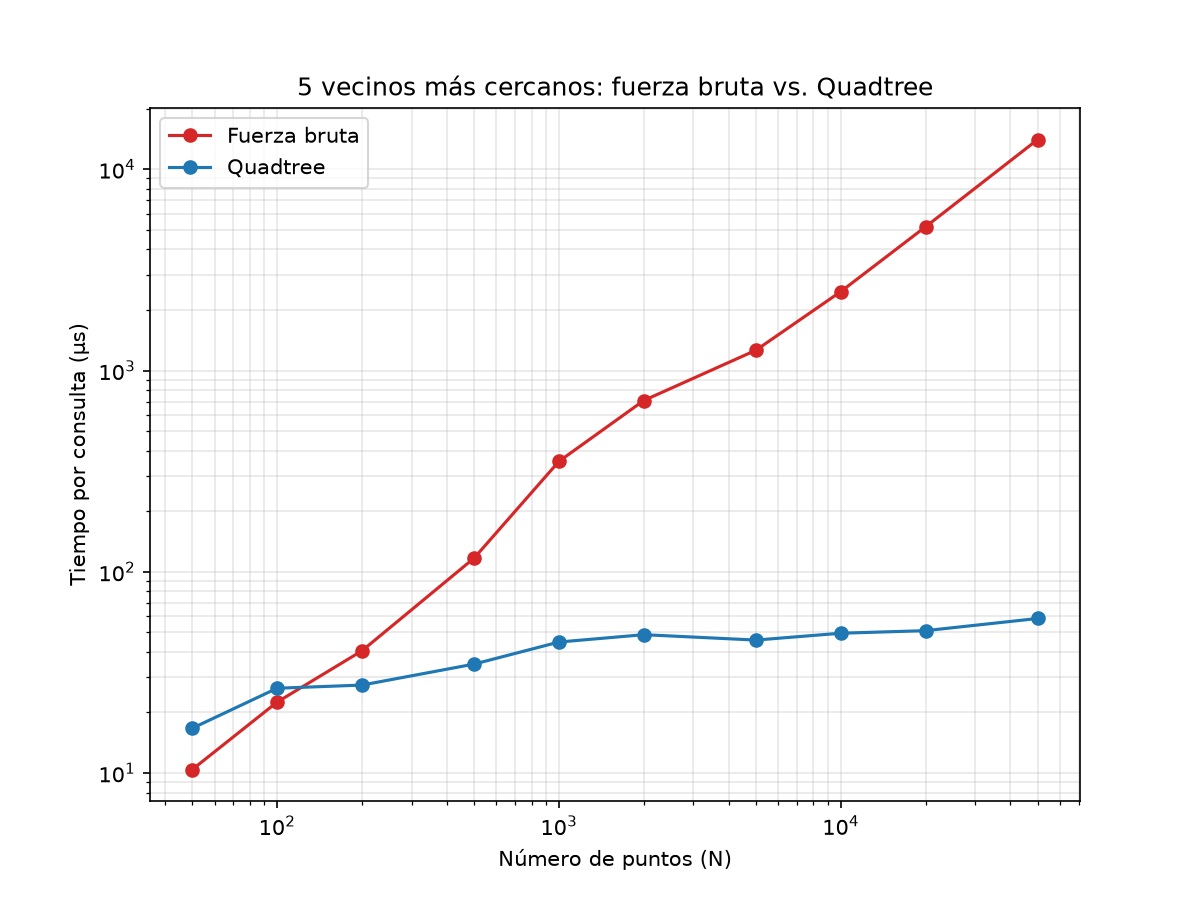
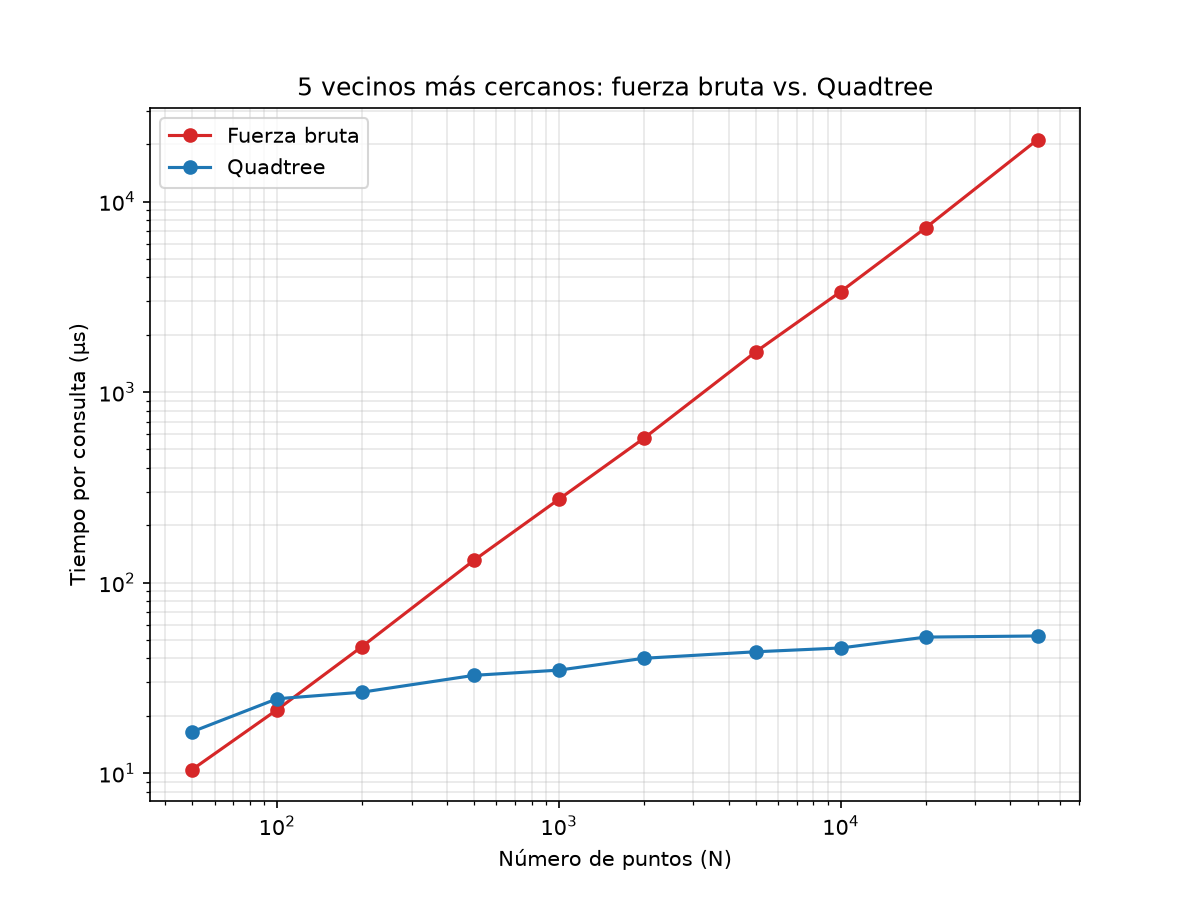
Verificacion de graficas
revise y corri nuevamente el programa

diff --git a/analisis.py b/analisis.py
@@ -17,6 +17,7 @@ os.makedirs(CARPETA, exist_ok=True)
 TAMANOS = [50, 100, 200, 500, 1000, 2000, 5000, 10000, 20000, 50000]
 CONSULTAS = 200       # consultas aleatorias por tamaño (se promedia)
 REPETICIONES = 3      # cada medición se repite y se toma la mejor (reduce el ruido)
+PASADAS = 3           # repeticiones de cada experimento
 RADIO = 500           # metros
 CAPACIDAD = 4         # puntos por nodo antes de subdividir
 LADO = 10000          # la ciudad mide LADO x LADO metros
@@ -149,20 +150,32 @@ def graficar_construccion(resultados, archivo="analisis_construccion.png"):
 # EXPERIMENTO EXTRA: capacidad del nodo
 # ======================================================================
 def experimento_capacidad(n=10000, capacidades=(2, 4, 8, 16, 32)):
+    claves = ["construccion", "radio_arbol", "vecino_arbol"]
+    mejores = []
+    for c in capacidades:
+        mejores.append({"construccion": None, "radio_arbol": None, "vecino_arbol": None})
+
+    # Repito TODO el barrido varias veces y me quedo con el mejor valor de cada capacidad
+    for pasada in range(PASADAS):
+        print(f"Capacidad: pasada {pasada + 1} de {PASADAS}")
+        for i in range(len(capacidades)):
+            r = medir(n, capacidad=capacidades[i])
+            for clave in claves:
+                if mejores[i][clave] is None or r[clave] < mejores[i][clave]:
+                    mejores[i][clave] = r[clave]
+
     print(f"\nEfecto de la capacidad del nodo (N = {n})")
     print(f"{'Capacidad':>9} | {'Constr(ms)':>10} | {'Radio árbol(µs)':>15} | {'Vec. árbol(µs)':>14}")
     print("-" * 58)
-    filas = []
-    for c in capacidades:
-        r = medir(n, capacidad=c)
-        filas.append((c, r))
-        print(f"{c:>9} | {r['construccion'] * 1000:>10.2f} | {r['radio_arbol'] * 1e6:>15.1f} |"
-              f" {r['vecino_arbol'] * 1e6:>14.1f}")
+    for i in range(len(capacidades)):
+        m = mejores[i]
+        print(f"{capacidades[i]:>9} | {m['construccion'] * 1000:>10.2f} | "
+              f"{m['radio_arbol'] * 1e6:>15.1f} | {m['vecino_arbol'] * 1e6:>14.1f}")
 
     fig, ax = plt.subplots(figsize=(8, 6))
-    ax.plot([c for c, _ in filas], [r["radio_arbol"] * 1e6 for _, r in filas],
+    ax.plot(list(capacidades), [m["radio_arbol"] * 1e6 for m in mejores],
             marker="o", label="Radio")
-    ax.plot([c for c, _ in filas], [r["vecino_arbol"] * 1e6 for _, r in filas],
+    ax.plot(list(capacidades), [m["vecino_arbol"] * 1e6 for m in mejores],
             marker="o", label="Vecino más cercano")
     ax.set_xscale("log", base=2)
     ax.set_xlabel("Capacidad del nodo")
@@ -172,7 +185,7 @@ def experimento_capacidad(n=10000, capacidades=(2, 4, 8, 16, 32)):
     ax.legend()
     fig.savefig(os.path.join(CARPETA, "analisis_capacidad.png"), dpi=150)
     plt.close(fig)
-
+    
 # ======================================================================
 # EXPERIMENTO: k VECINOS MÁS CERCANOS
 # ======================================================================
@@ -195,20 +208,26 @@ def medir_k(n, k):
 
 def experimento_k():
     # --- Parte 1: tiempo contra N, con k fijo ---
+    brutas = [None] * len(TAMANOS)
+    arboles = [None] * len(TAMANOS)
+    for pasada in range(PASADAS):
+        print(f"k = {K}: pasada {pasada + 1} de {PASADAS}")
+        for i in range(len(TAMANOS)):
+            t_b, t_a = medir_k(TAMANOS[i], K)
+            if brutas[i] is None or t_b < brutas[i]:
+                brutas[i] = t_b
+            if arboles[i] is None or t_a < arboles[i]:
+                arboles[i] = t_a
+
     print(f"\nk = {K} vecinos más cercanos: tiempo por consulta (µs)")
     print(f"{'N':>7} | {'Fuerza bruta':>12} | {'Quadtree':>10}")
     print("-" * 36)
-    ns, brutas, arboles = [], [], []
-    for n in TAMANOS:
-        t_b, t_a = medir_k(n, K)
-        ns.append(n)
-        brutas.append(t_b * 1e6)
-        arboles.append(t_a * 1e6)
-        print(f"{n:>7} | {t_b * 1e6:>12.1f} | {t_a * 1e6:>10.1f}")
+    for i in range(len(TAMANOS)):
+        print(f"{TAMANOS[i]:>7} | {brutas[i] * 1e6:>12.1f} | {arboles[i] * 1e6:>10.1f}")
 
     fig, ax = plt.subplots(figsize=(8, 6))
-    ax.plot(ns, brutas, marker="o", color="tab:red", label="Fuerza bruta")
-    ax.plot(ns, arboles, marker="o", color="tab:blue", label="Quadtree")
+    ax.plot(TAMANOS, [t * 1e6 for t in brutas], marker="o", color="tab:red", label="Fuerza bruta")
+    ax.plot(TAMANOS, [t * 1e6 for t in arboles], marker="o", color="tab:blue", label="Quadtree")
     ax.set_xscale("log")
     ax.set_yscale("log")
     ax.set_xlabel("Número de puntos (N)")
@@ -222,19 +241,26 @@ def experimento_k():
     # --- Parte 2: tiempo contra k, con N fijo ---
     n = 10000
     ks = [1, 5, 10, 25, 50, 100]
+    brutas_k = [None] * len(ks)
+    arboles_k = [None] * len(ks)
+    for pasada in range(PASADAS):
+        print(f"Efecto de k: pasada {pasada + 1} de {PASADAS}")
+        for i in range(len(ks)):
+            t_b, t_a = medir_k(n, ks[i])
+            if brutas_k[i] is None or t_b < brutas_k[i]:
+                brutas_k[i] = t_b
+            if arboles_k[i] is None or t_a < arboles_k[i]:
+                arboles_k[i] = t_a
+
     print(f"\nEfecto de k (N = {n}): tiempo por consulta (µs)")
     print(f"{'k':>5} | {'Fuerza bruta':>12} | {'Quadtree':>10}")
     print("-" * 34)
-    brutas_k, arboles_k = [], []
-    for k in ks:
-        t_b, t_a = medir_k(n, k)
-        brutas_k.append(t_b * 1e6)
-        arboles_k.append(t_a * 1e6)
-        print(f"{k:>5} | {t_b * 1e6:>12.1f} | {t_a * 1e6:>10.1f}")
+    for i in range(len(ks)):
+        print(f"{ks[i]:>5} | {brutas_k[i] * 1e6:>12.1f} | {arboles_k[i] * 1e6:>10.1f}")
 
     fig, ax = plt.subplots(figsize=(8, 6))
-    ax.plot(ks, brutas_k, marker="o", color="tab:red", label="Fuerza bruta")
-    ax.plot(ks, arboles_k, marker="o", color="tab:blue", label="Quadtree")
+    ax.plot(ks, [t * 1e6 for t in brutas_k], marker="o", color="tab:red", label="Fuerza bruta")
+    ax.plot(ks, [t * 1e6 for t in arboles_k], marker="o", color="tab:blue", label="Quadtree")
     ax.set_xscale("log")
     ax.set_yscale("log")
     ax.set_xlabel("k (cantidad de vecinos)")
@@ -245,14 +271,50 @@ def experimento_k():
     fig.savefig(os.path.join(CARPETA, "analisis_k_valor.png"), dpi=150)
     plt.close(fig)
 
+def graficar_ventaja(resultados, archivo="analisis_ventaja.png"):
+    ns = [r["n"] for r in resultados]
+    ventaja_radio = [r["radio_bruta"] / r["radio_arbol"] for r in resultados]
+    ventaja_vecino = [r["vecino_bruta"] / r["vecino_arbol"] for r in resultados]
+
+    fig, ax = plt.subplots(figsize=(8, 6))
+    ax.plot(ns, ventaja_radio, marker="o", color="tab:blue", label="Radio")
+    ax.plot(ns, ventaja_vecino, marker="o", color="tab:orange", label="Vecino más cercano")
+    ax.axhline(1, color="red", linestyle="--", label="Empate (1 = igual de rápidos)")
+    ax.set_xscale("log")
+    ax.set_yscale("log")
+    ax.set_xlabel("Número de puntos (N)")
+    ax.set_ylabel("Veces más rápido el Quadtree")
+    ax.set_title("Ventaja del Quadtree sobre la fuerza bruta")
+    ax.grid(True, which="both", alpha=0.3)
+    ax.legend()
+    fig.savefig(os.path.join(CARPETA, archivo), dpi=150)
+    plt.close(fig)
+
 # ======================================================================
 # PROGRAMA PRINCIPAL
 # ======================================================================
 def main():
+    todas = []
+    for pasada in range(PASADAS):
+        print(f"Pasada {pasada + 1} de {PASADAS}")
+        corrida = []
+        for n in TAMANOS:
+            corrida.append(medir(n))
+        todas.append(corrida)
+
+    # Para cada N y cada medida, me quedo con el mejor valor de las pasadas
+    claves = ["construccion", "radio_bruta", "radio_arbol", "vecino_bruta", "vecino_arbol"]
     resultados = []
-    for n in TAMANOS:
-        print(f"Midiendo N = {n} ...")
-        resultados.append(medir(n))
+    for i in range(len(TAMANOS)):
+        fila = {"n": TAMANOS[i]}
+        for clave in claves:
+            mejor = None
+            for corrida in todas:
+                valor = corrida[i][clave]
+                if mejor is None or valor < mejor:
+                    mejor = valor
+            fila[clave] = mejor
+        resultados.append(fila)
 
     imprimir_tabla(resultados)
 
@@ -263,6 +325,7 @@ def main():
                          "Vecino más cercano: fuerza bruta vs. Quadtree",
                          "analisis_vecino.png")
     graficar_construccion(resultados)
+    graficar_ventaja(resultados)
 
     print("\n--- PUNTO DE CRUCE ---")
     for nombre, kb, ka in [("Radio", "radio_bruta", "radio_arbol"),

diff --git a/test.py b/test.py
@@ -172,6 +172,37 @@ def graficar_k_vecinos(puntos, x, y, vecinos, archivo="k_vecinos.png"):
     fig.savefig(os.path.join(CARPETA, archivo), dpi=150)
     plt.close(fig)
 
+def graficar_comparacion_metodos(puntos, arbol, x, y, r, archivo="comparacion_metodos.png"):
+    de_bruta = brute_radius(puntos, x, y, r)
+    de_arbol = arbol.query_radius(x, y, r)
+    iguales = set(de_bruta) == set(de_arbol)
+
+    nombres = ["Fuerza bruta", "Quadtree"]
+    resultados = [de_bruta, de_arbol]
+
+    fig, ejes = plt.subplots(1, 2, figsize=(14, 7))
+    for i in range(2):
+        ax = ejes[i]
+        x_todos = [p[0] for p in puntos]
+        y_todos = [p[1] for p in puntos]
+        ax.scatter(x_todos, y_todos, s=10, color="lightgray")
+
+        x_enc = [p[0] for p in resultados[i]]
+        y_enc = [p[1] for p in resultados[i]]
+        ax.scatter(x_enc, y_enc, s=25, color="tab:blue")
+
+        ax.add_patch(Circle((x, y), r, fill=False, color="red"))
+        ax.scatter([x], [y], marker="*", s=200, color="red")
+        ax.set_xlim(x - r * 1.5, x + r * 1.5)
+        ax.set_ylim(y - r * 1.5, y + r * 1.5)
+        ax.set_aspect("equal")
+        ax.set_title(f"{nombres[i]}: {len(resultados[i])} puntos encontrados")
+
+    fig.suptitle(f"Mismo radio de {r} m con los dos métodos. ¿Mismos resultados? {iguales}")
+    fig.tight_layout()
+    fig.savefig(os.path.join(CARPETA, archivo), dpi=150)
+    plt.close(fig)
+
 def generar_graficas():
     # Mismos datos y árbol que en las pruebas
     random.seed(42)
@@ -190,13 +221,16 @@ def generar_graficas():
     vecino_punto = mejor[0]
     distancia_m = math.sqrt(mejor[1])
     graficar_vecino(puntos, cx, cy, vecino_punto, distancia_m, "vecino.png")
-
-    print(f"Gráficas guardadas en la carpeta '{CARPETA}/'")
-
+ 
     # Gráfica 3: los 5 vecinos más cercanos
     vecinos = arbol.k_nearest_points(cx, cy, 5)
     graficar_k_vecinos(puntos, cx, cy, vecinos, "k_vecinos.png")
 
+
+    # Gráfica 4: comparación de los dos métodos (fuerza bruta y Quadtree)
+    graficar_comparacion_metodos(puntos, arbol, cx, cy, radio, "comparacion_metodos.png")
+
+    print(f"Gráficas guardadas en la carpeta '{CARPETA}/'")
 
 # ======================================================================
 # EJECUCIÓN
